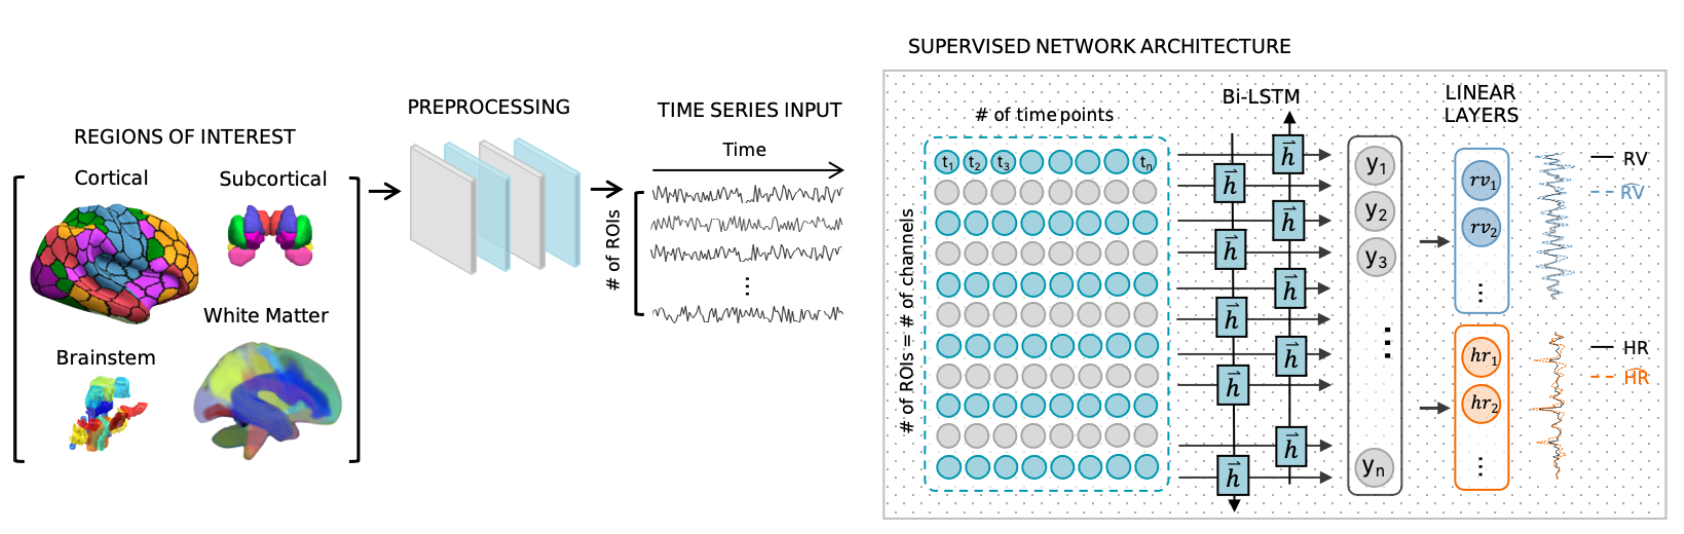
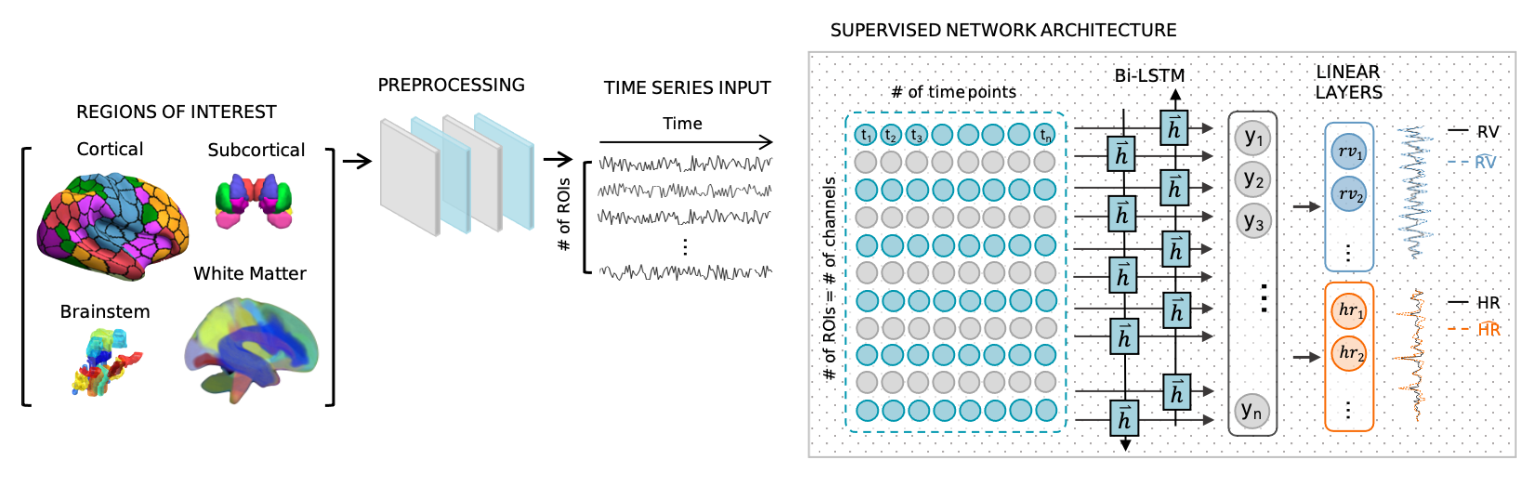
updated projects: dpr-figures

Changed region(s): [[0.0, 0.0293, 0.9987, 0.9958]]

diff --git a/docs/Projects.md b/docs/Projects.md
@@ -16,9 +16,17 @@ The model undergoes extensive validation through new experiments, larger subject
 
 The result is a meticulously validated tool that enriches neuroimaging datasets by reconstructing missing or corrupted physiological data, specifically tailored for the young adult population.
 
-<p align="center">
-<img src="https://github.com/neurdylab/physai/blob/main/docs/assets/images/young.png?raw=true" width="500">
+> <p align="center">
+<img src="https://github.com/neurdylab/physai/blob/main/docs/assets/images/young.png?raw=true" width=800">
 </p>
+
+> The pipeline for estimating respiration volume (RV) and heart rate
+(HR) signals from fMRI time-series dynamics is shown. Regions of interest are defined using 4 published
+atlases that had been constructed from different imaging modalities, comprising areas in cerebral cortex,
+white matter, subcortex, and the ascending arousal network. ROI time-series signals are extracted from
+the fMRI volumes, detrended, bandpass filtered and downsampled. The preprocessed signals are provided
+to a candidate network as input channels. A bidirectional LSTM network architecture is adapted for joint
+estimation. The output of linear layers are RV and HR signals.
 
 ---
 
@@ -34,9 +42,11 @@ We evaluate several model training and fine-tuning strategies, with a significan
 
 Our framework successfully infers critical physiological variables directly from fMRI data, offering a powerful tool for studying brain-body interactions across a wide span of the adult lifespan. This work not only advances the field of neuroimaging but also enhances the efficacy of fMRI as a biomarker in aging research.
 
-<p align="center">
-<img src="https://github.com/neurdylab/physai/blob/main/docs/assets/images/aging.png?raw=true" width="500">
+> <p align="center">
+<img src="https://github.com/neurdylab/physai/blob/main/docs/assets/images/lifespan.png?raw=true" height="500">
 </p>
+
+> Transformer seq2one (a) and Transformer seq2seq (b) model architectures. These models take fMRI time-series from specific brain regions of interest (ROIs) as input, and output the predicted physiological (RV and HR) time courses.
 
 
 
